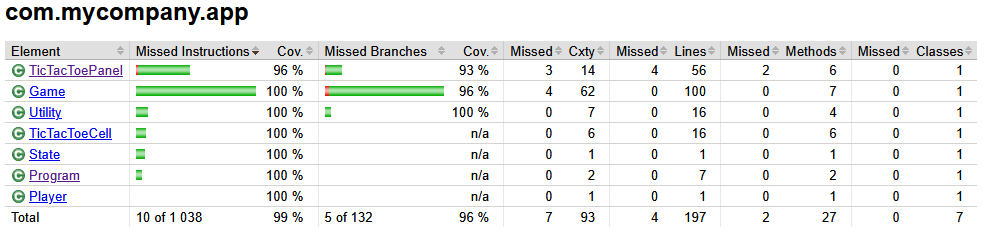
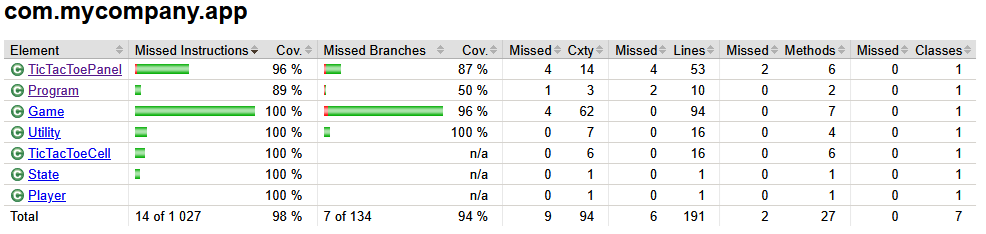
update Program.main to handle headless mode

diff --git a/src/main/java/com/mycompany/app/Program.java b/src/main/java/com/mycompany/app/Program.java
@@ -189,6 +189,11 @@ public class Program {
     public static FileWriter fileWriter;
     public static PrintWriter printWriter;
     public static void main(String[] args) throws IOException {
+       if (GraphicsEnvironment.isHeadless()) {
+         System.out.println("Running in headless mode - GUI not started");
+         return;
+       }
+       
        JFrame frame = new JFrame("Demo");
        frame.add(new TicTacToePanel(new GridLayout(3,3)));
        frame.setDefaultCloseOperation(JFrame.EXIT_ON_CLOSE);
